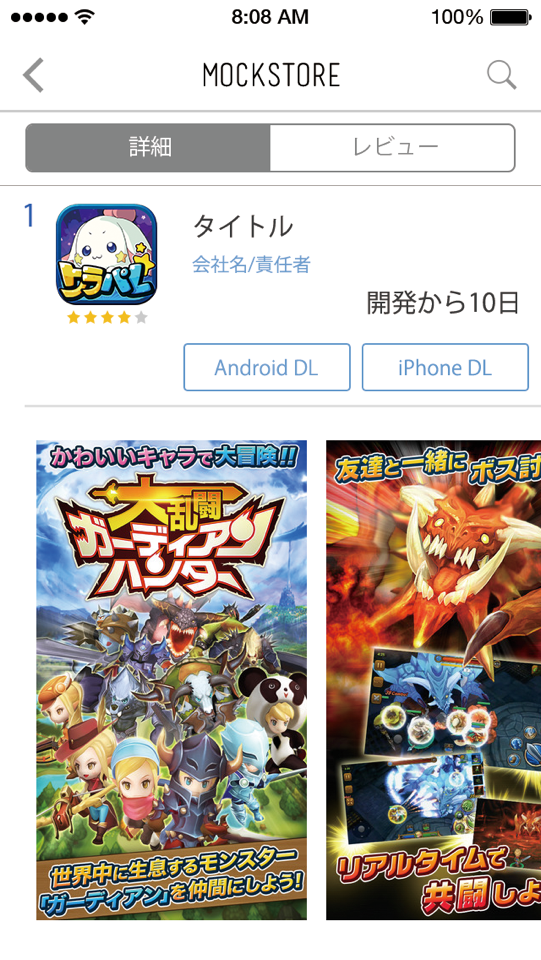
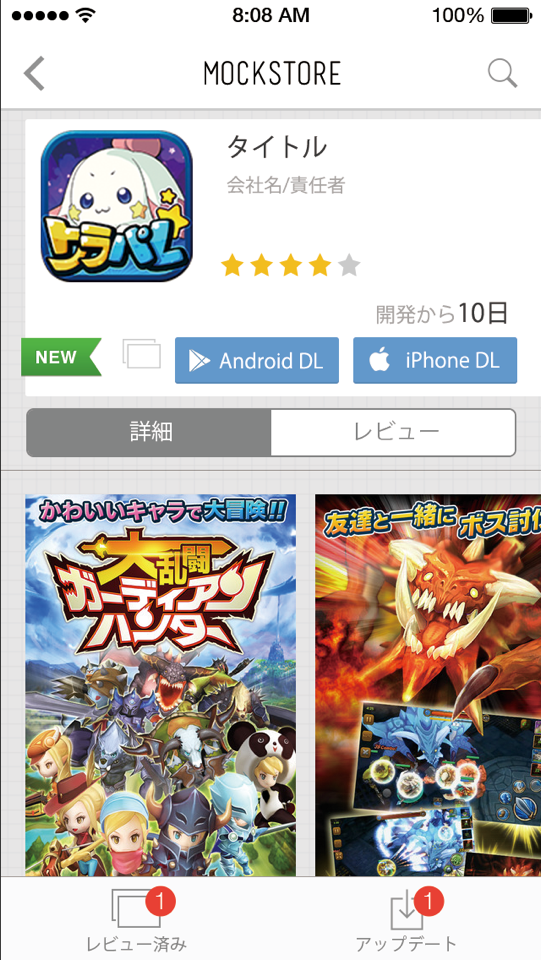
画像差し替え

diff --git a/mock_store/image_mock/css/common.css b/mock_store/image_mock/css/common.css
@@ -29,23 +29,23 @@ article{
 }
 
 .dl_button{
-	width:350px;
-	height:45px;
+	width: 350px;
+	height: 45px;
 	/*background-color:#F00F00;*/
-	position:absolute;
-	z-index:100;
-	top:565px;
-	left:180px;
+	position: absolute;
+	z-index: 100;
+	top: 538px;
+	left: 180px;
 }
 
 .dl_button2{
-	width:350px;
-	height:45px;
+	width: 350px;
+	height: 45px;
 	/*background-color:#F00F00;*/
-	position:absolute;
-	z-index:100;
-	top:785px;
-	left:180px;
+	position: absolute;
+	z-index: 100;
+	top: 747px;
+	left: 180px;
 }
 
 .dl_button3{
@@ -54,8 +54,8 @@ article{
 	/*background-color:#F00F00;*/
 	position: absolute;
 	z-index: 100;
-	top: 345px;
-	left: 180px;
+	top: 336px;
+	left: 171px;
 }
 
 .back_button{
@@ -65,7 +65,7 @@ article{
 	position: absolute;
 	z-index: 100;
 	top: 53px;
-	left: 12px;
+	left: 25px;
 }
 
 .search_button{
@@ -84,7 +84,7 @@ article{
 	/*background-color:#F00F00;*/
 	position: absolute;
 	z-index: 100;
-	top: 347px;
+	top: 326px;
 	left: 272px;
 }
 
@@ -94,6 +94,16 @@ article{
 	/*background-color:#F00F00;*/
 	position: absolute;
 	z-index: 100;
-	top: 125px;
-	left: 270px;
+	top: 412px;
+	left: 273px;
+}
+
+.detail_tab{
+	width: 244px;
+	height: 45px;
+	/*background-color:#F00F00;*/
+	position: absolute;
+	z-index: 100;
+	top: 412px;
+	left: 28px;
 }

diff --git a/mock_store/image_mock/review.html b/mock_store/image_mock/review.html
@@ -15,11 +15,11 @@
 <body>
 <article>
 	<div class="header"></div>
-  <div class="image"><img src="img/detail.jpg"></div>
+  <div class="image"><img src="img/review.jpg"></div>
     <div class="dl_button3"><a href="" ></a></div>
     <div class="back_button"><a href=""></a></div>
     <div class="search_button"><a href=""></a></div>
-    <div class="review_tab"><a href=""></a></div>
+    <div class="detail_tab"><a href=""></a></div>
     <script>
 	 $(".header").click(function(){
 		 return false;
@@ -33,8 +33,8 @@
 	$(".search_button").click(function(){
 		alert("検索機能");
 	})
-	$(".review_tab").click(function(){
-		window.location.href = "review.html";
+	$(".detail_tab").click(function(){
+		window.location.href = "detail.html";
 		// alert("レビュータブに移動します");
 	})
     </script>

diff --git a/mock_store/image_mock/index.html b/mock_store/image_mock/index.html
@@ -14,12 +14,12 @@
 </head>
 <body>
 <article>
-	<div class="header"></div>
+  <div class="header"></div>
   <div class="image"><img src="img/index.jpg"></div>
-  	<div class="dl_button"><a href="" ></a></div>
+  <div class="dl_button"><a href="" ></a></div>
   <div class="dl_button2"><a href="" ></a></div>
-    <div class="back_button"><a href=""></a></div>
-    <div class="search_button"><a href=""></a></div>
+  <div class="back_button"><a href=""></a></div>
+  <div class="search_button"><a href=""></a></div>
     <div class="successive_tab"><a href=""></a></div>
   <script>
    $(".header").click(function(){
